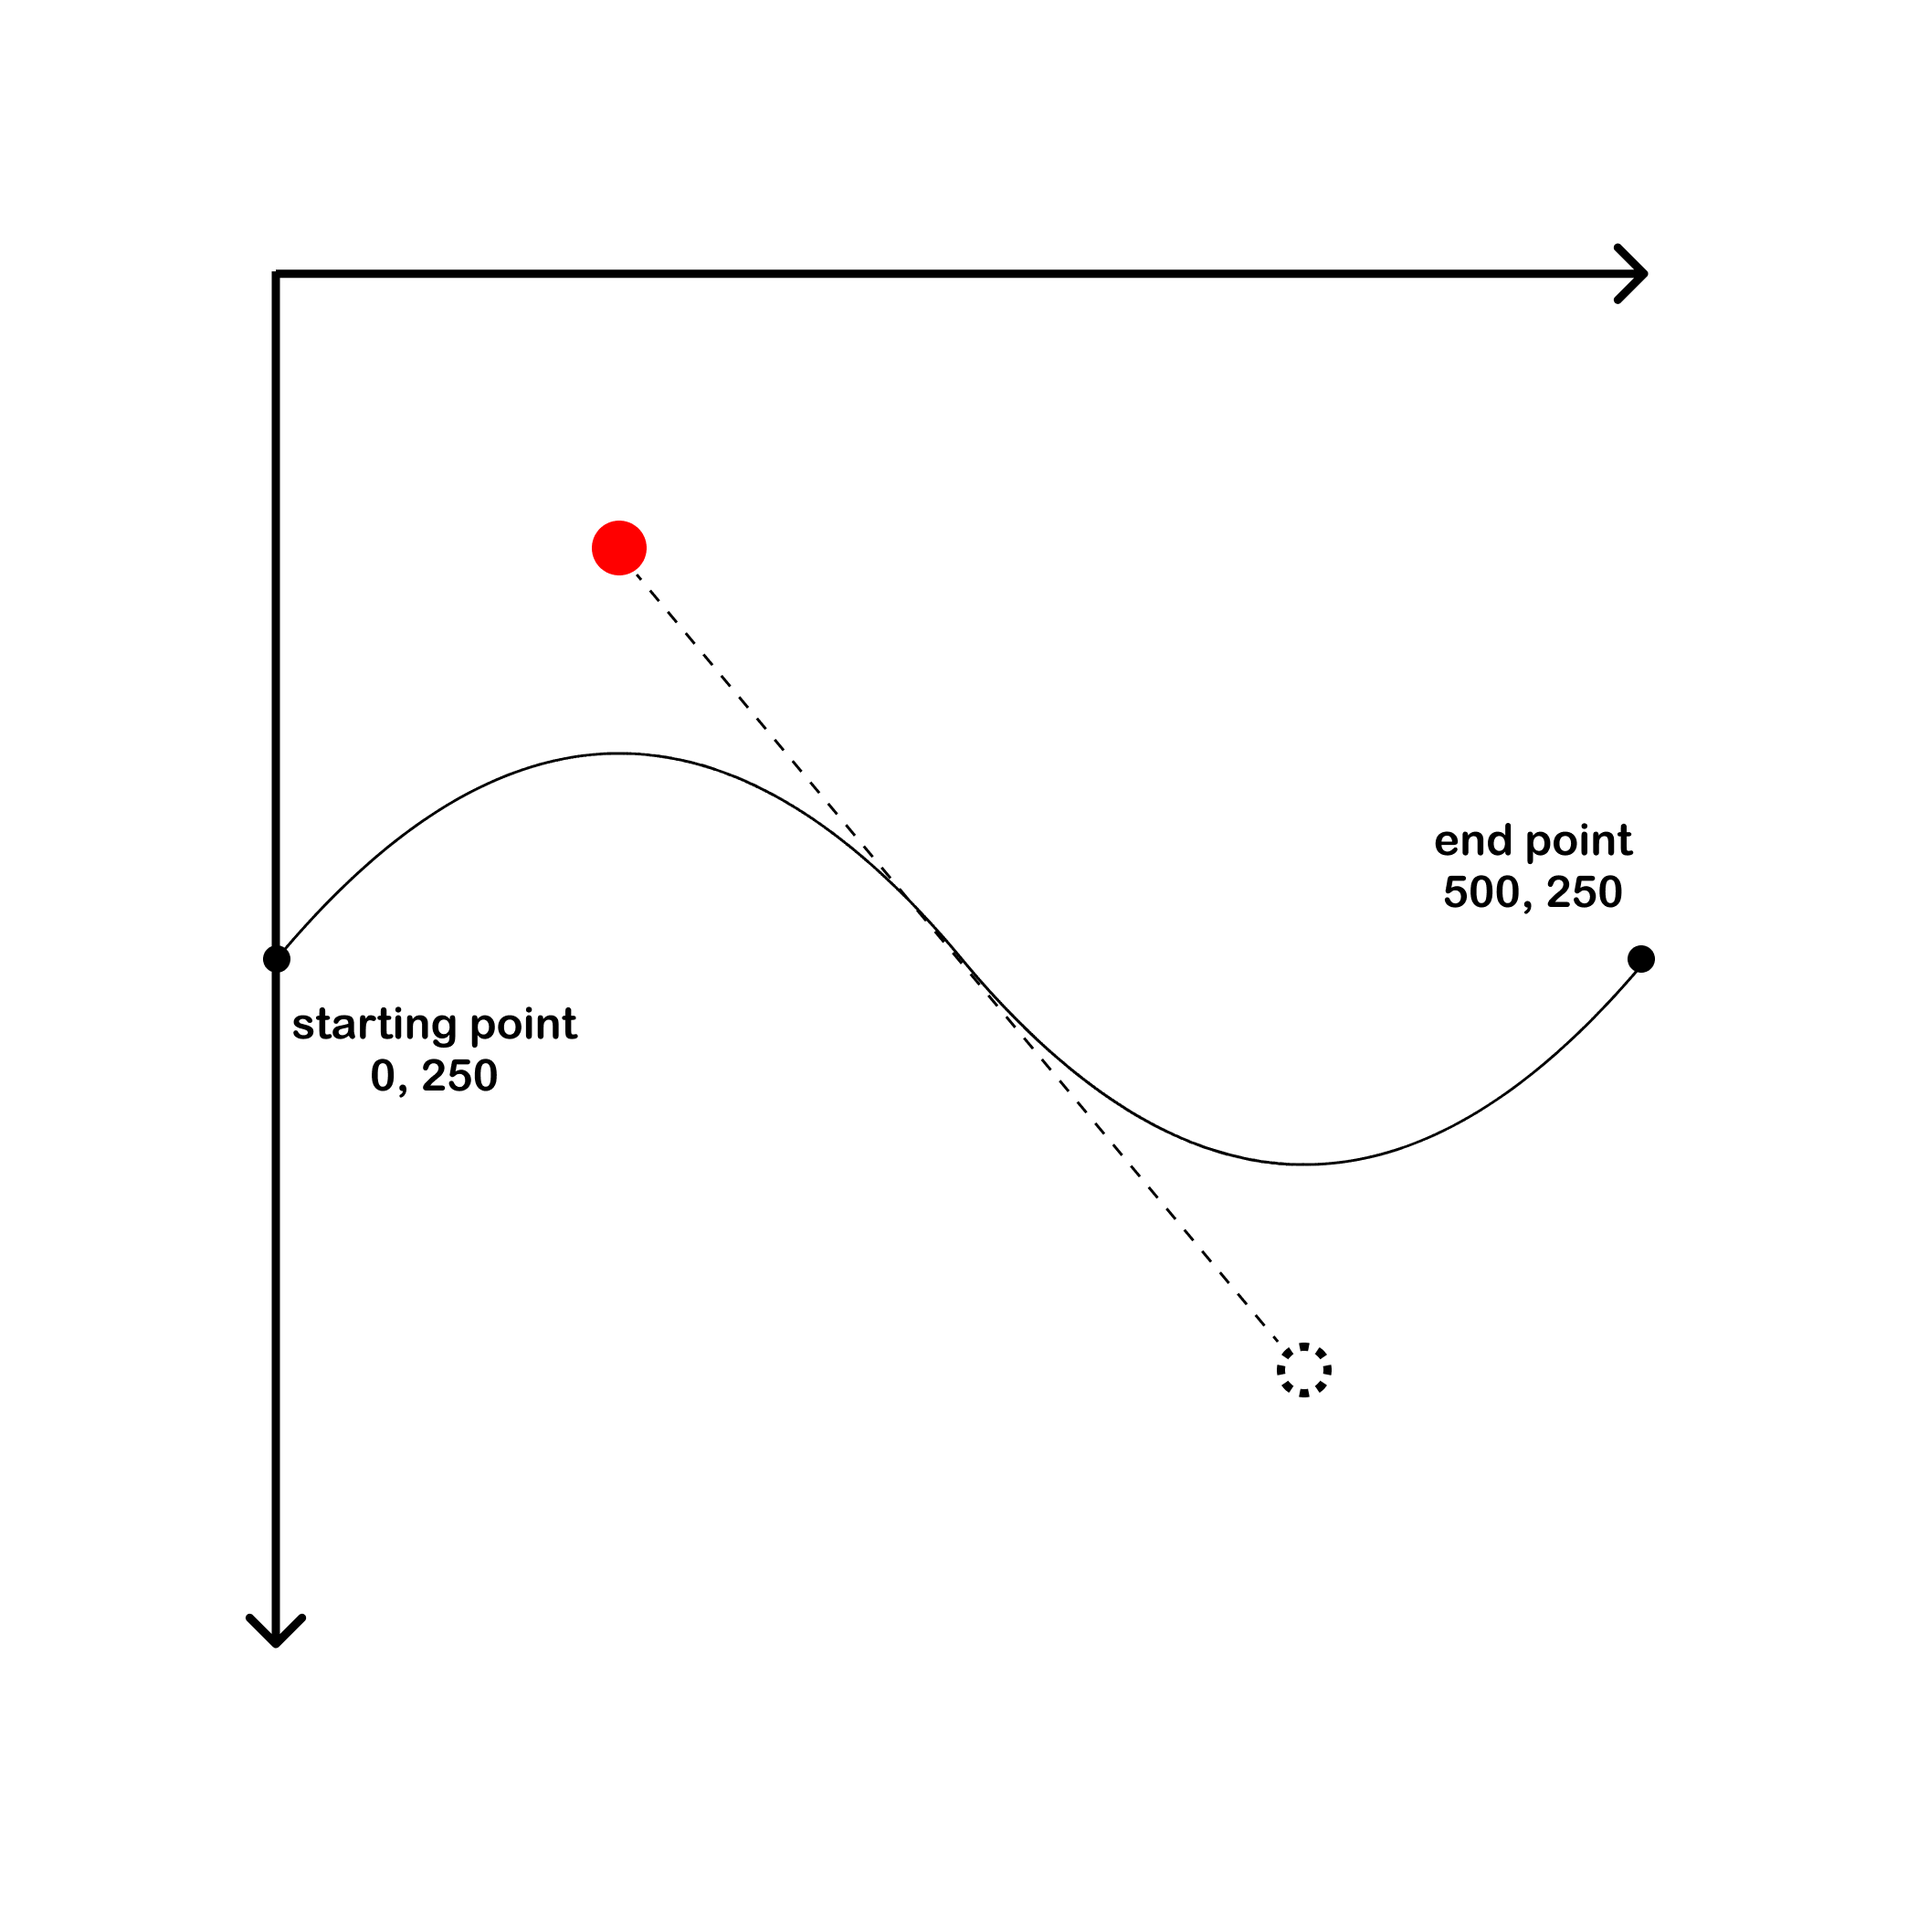
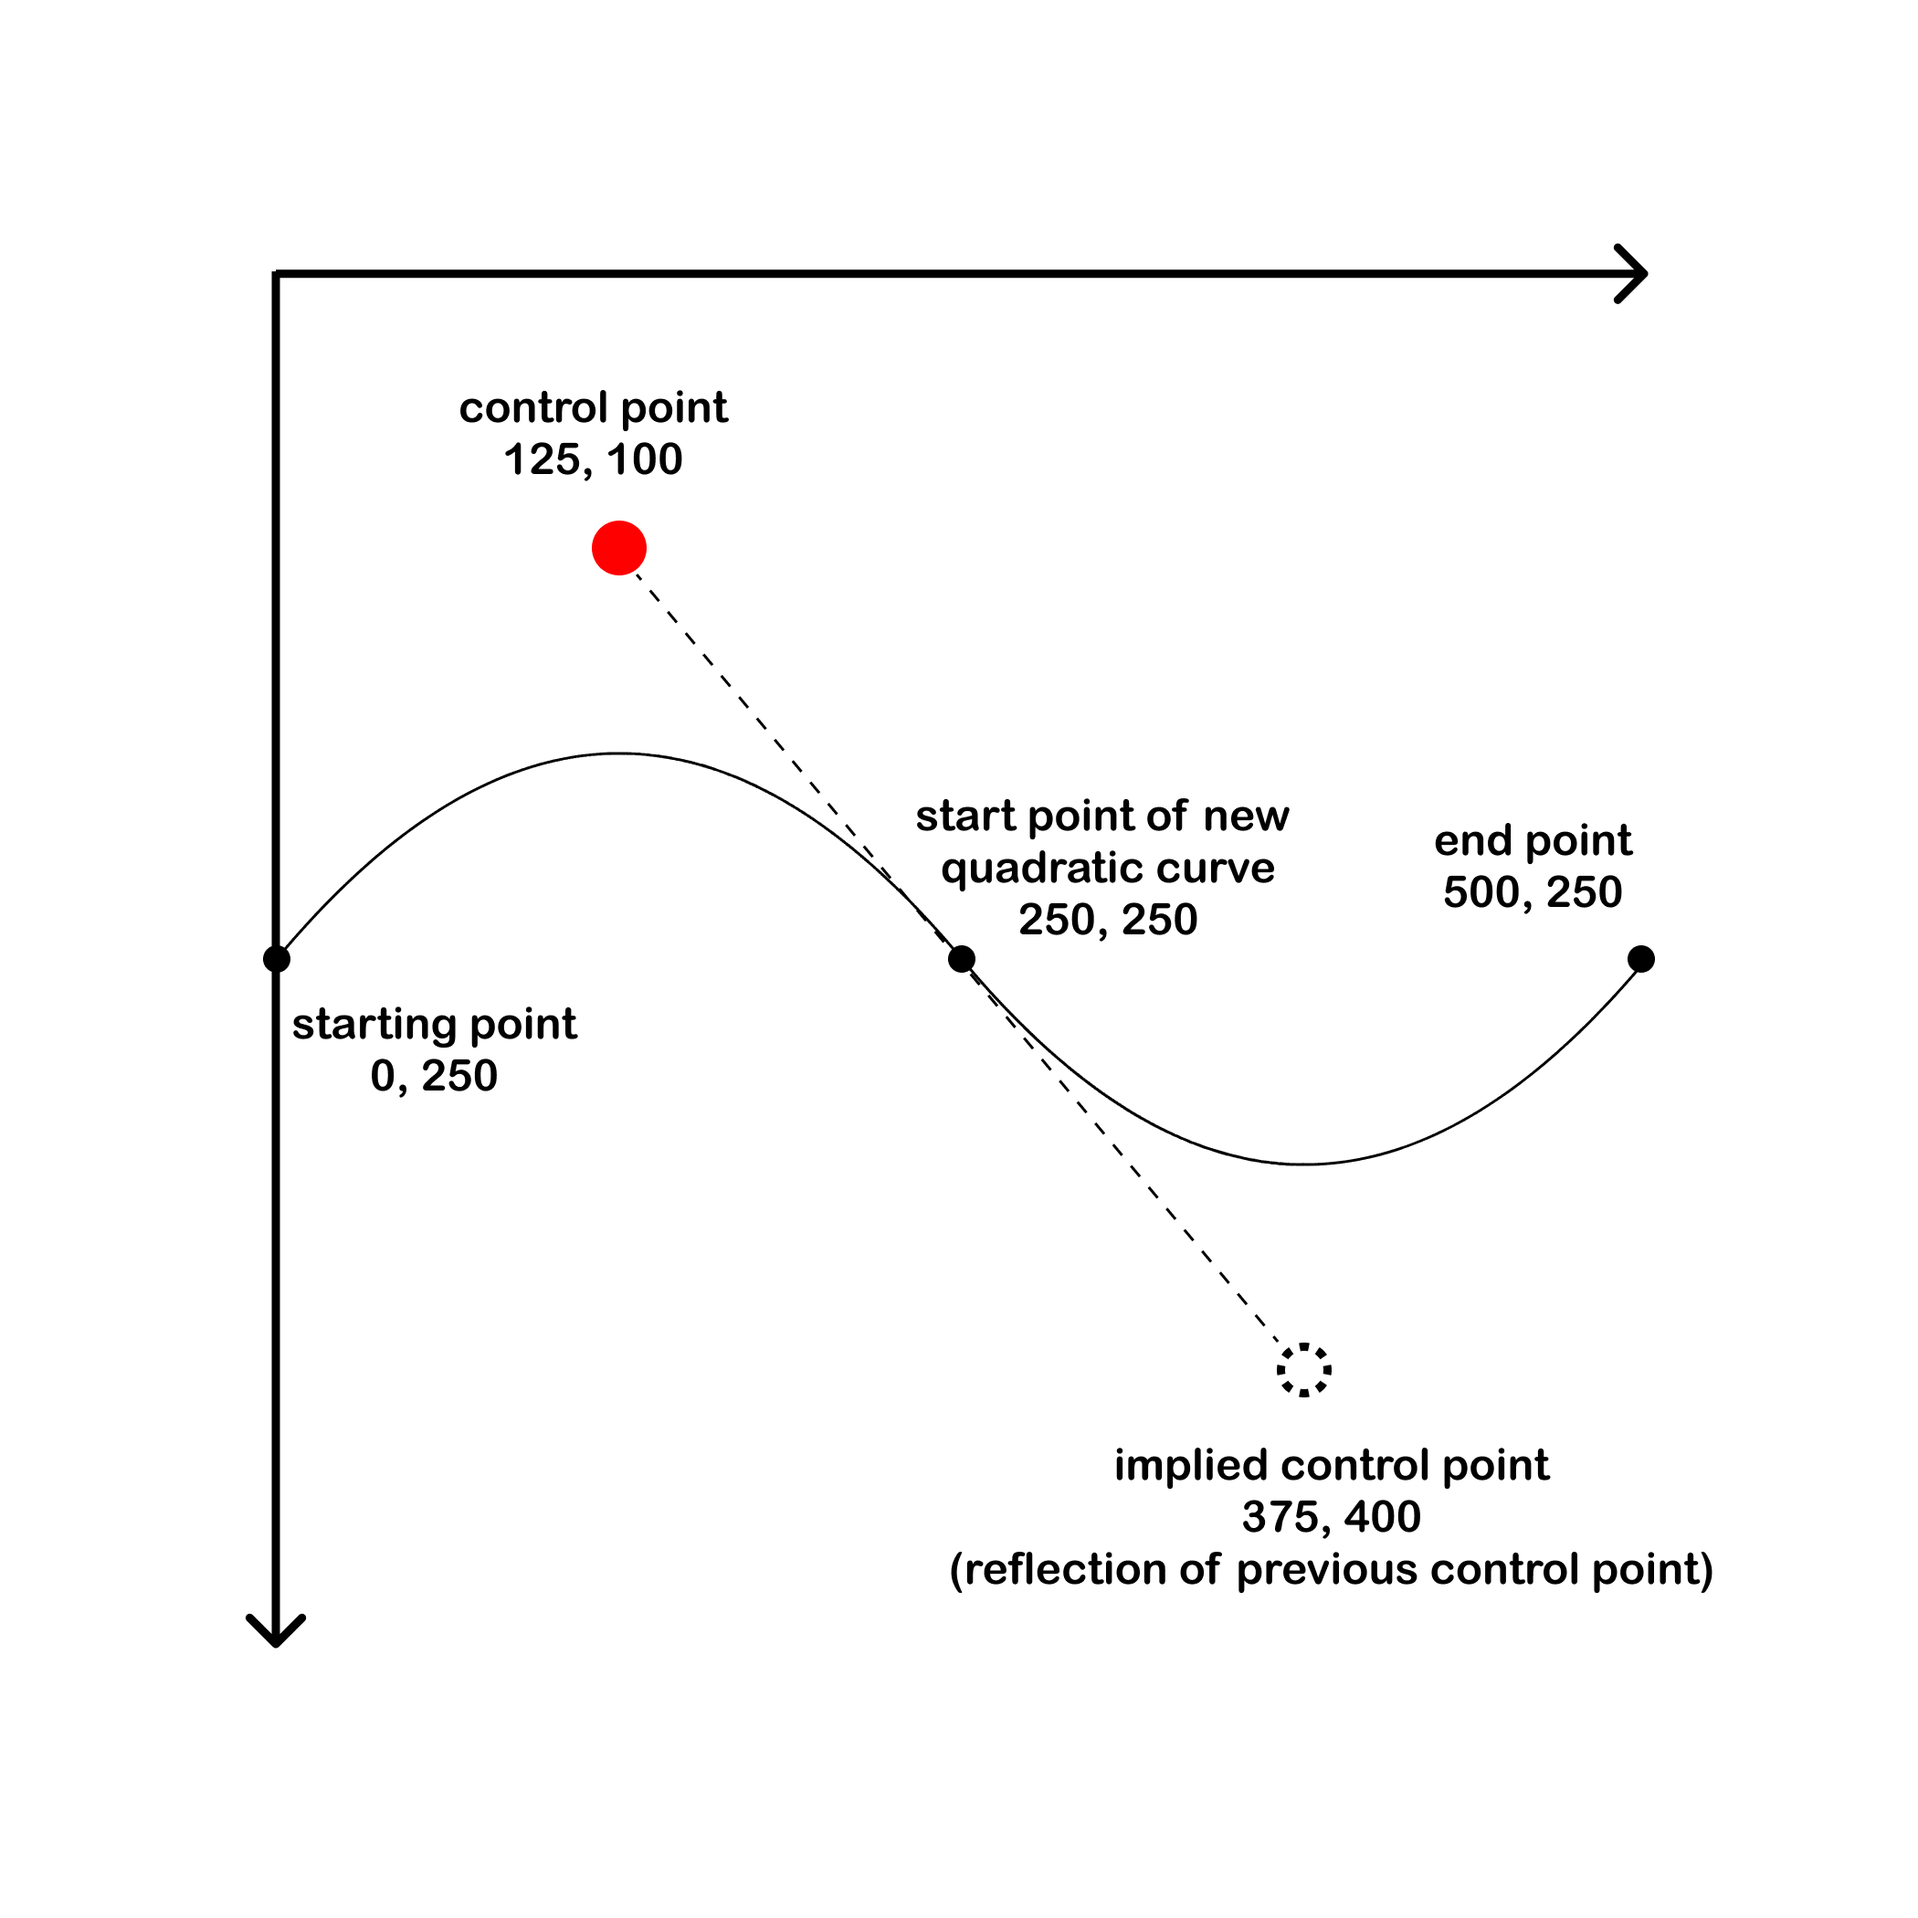
full functionality

diff --git a/src/components/tbezierdemo/index.tsx b/src/components/tbezierdemo/index.tsx
@@ -7,6 +7,7 @@ const TBezierDemo = () => {
     const path = useRef<SVGPathElement>(null);
     const ball = useRef<SVGCircleElement>(null);
     const ballReflection = useRef<SVGCircleElement>(null);
+    const connector = useRef<SVGPathElement>(null);
     const stage = useRef<SVGSVGElement>(null);
     const pathText = useRef<SVGTSpanElement>(null)
     let dragging = false;
@@ -43,7 +44,7 @@ const TBezierDemo = () => {
             ball.current?.setAttribute("cy", String(ypos));
             ballReflection.current?.setAttribute("cx", String(xposMirror));
             ballReflection.current?.setAttribute("cy", String(yposMirror));
-
+            connector.current?.setAttribute("d", `M${xpos},${ypos} L${xposMirror},${yposMirror}`);
             updatePath(xpos, ypos);
         }
     }
@@ -51,7 +52,7 @@ const TBezierDemo = () => {
     const updatePath = (x: number, y: number) => {
         const str = `M 0,250 Q ${Math.round(x)},${Math.round(y)} 250,250 T 500,250`;
         path.current?.setAttribute("d", str);
-        if (pathText.current != null) pathText.current.textContent = `Q ${Math.round(x)}, ${Math.round(y)} T`;
+        if (pathText.current != null) pathText.current.textContent = `Q ${Math.round(x)}, ${Math.round(y)} 250,250 T`;
     }
 
     const toSVGPoint = (svg: SVGGraphicsElement, x: number, y: number) => {
@@ -72,8 +73,11 @@ const TBezierDemo = () => {
         <svg ref={stage} width={500} height={500} viewBox="0 0 500 500">
             <rect x={20} y={20} width={460} height={460} fill={"#eaeaea"} stroke={"none"} />
             <path ref={path} d="M 0,250 Q 125,100 250,250 T 500,250" stroke={"black"} strokeWidth={2} fill="none" />
-            <text x={250} y={100} textAnchor={"middle"}>Drag Me!</text>
+            <text x={125} y={75} textAnchor={"middle"}>Drag Me!</text>
             <text x={250} y={450} textAnchor={"middle"}>"M 0,250 <tspan stroke={"red"} ref={pathText}>Q 250, 120 250, 250 T</tspan> 500,250"</text>
+            <path ref={connector} d={"M125,100 L375,400"} stroke={"black"} strokeDasharray={5} />
+            <circle
+                cx={250} cy={250} r={5} fill={"black"} />
             <circle
                 onMouseDown={() => {
                     startDragging();
